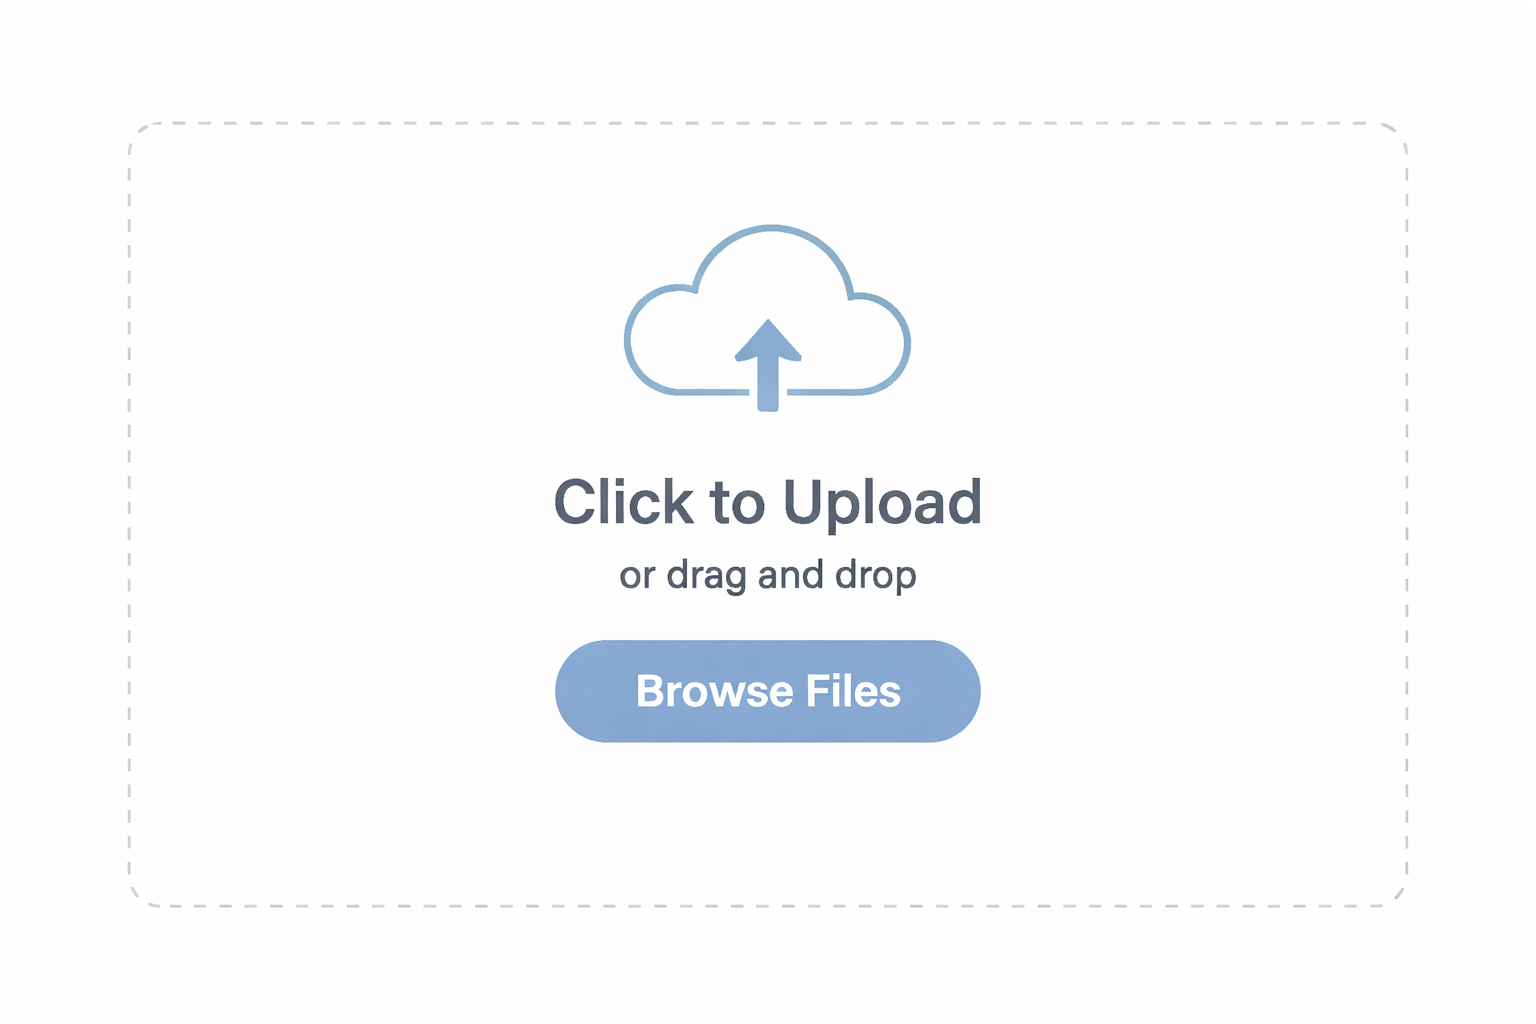
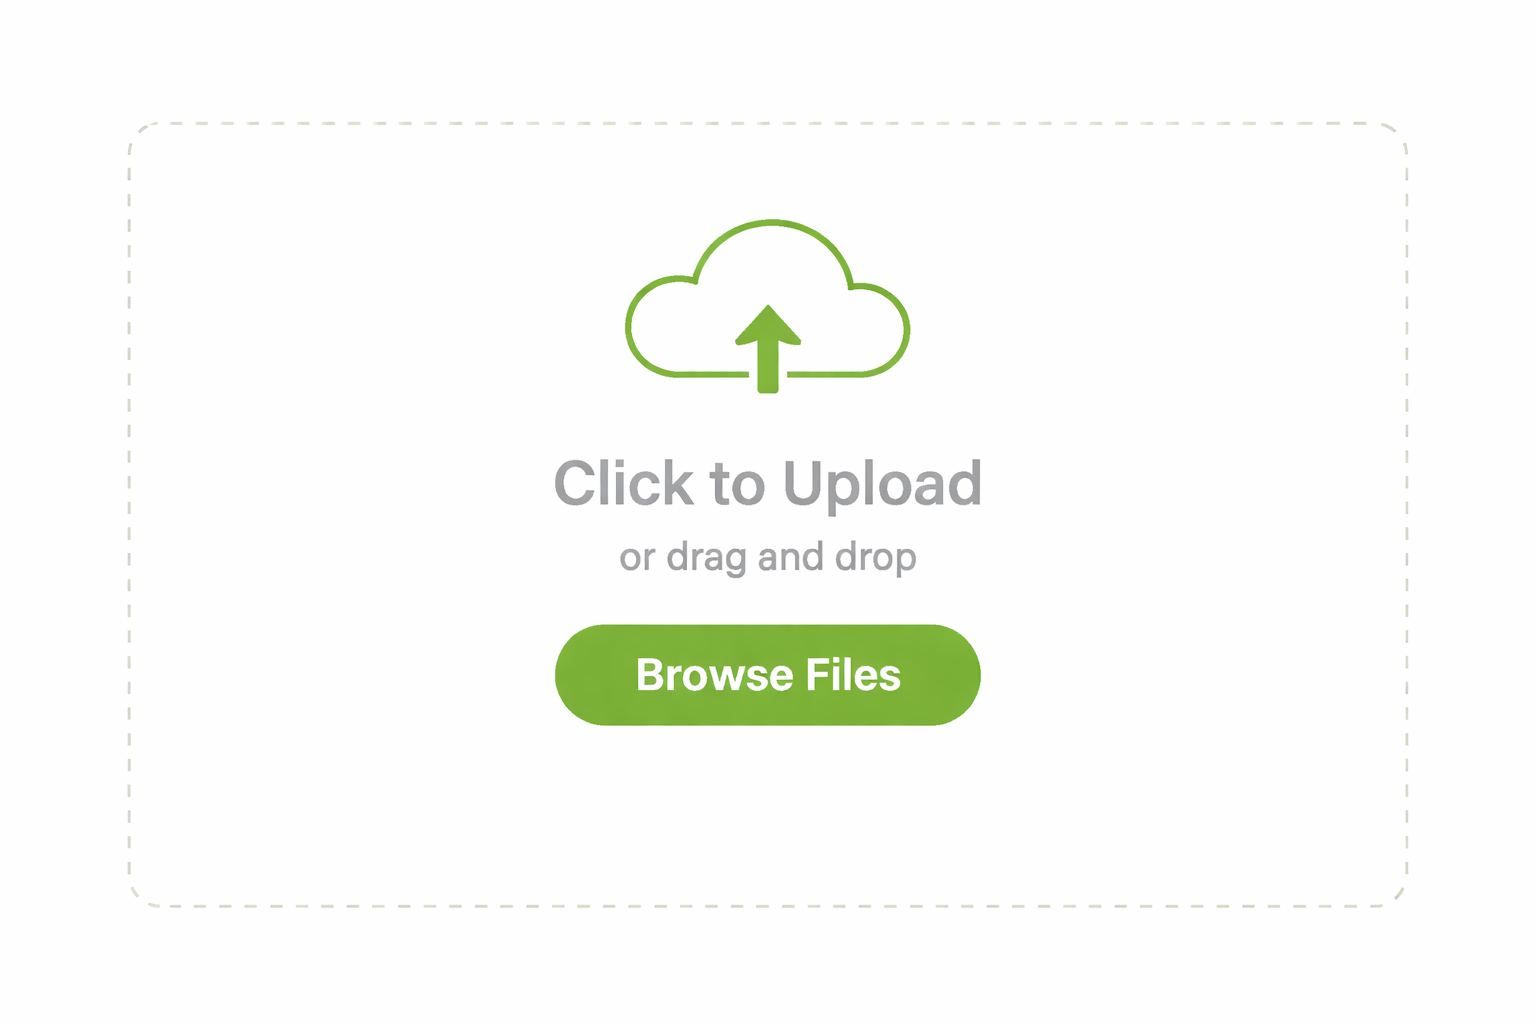
Completed

Changed region(s): [[0.3438, 0.4375, 0.6562, 0.75], [0.4062, 0.2188, 0.5938, 0.4062]]

diff --git a/Client/src/pages/seller/AddProduct.jsx b/Client/src/pages/seller/AddProduct.jsx
@@ -1,13 +1,13 @@
 import React, { useState } from 'react'
-import { assets } from '../../assets/assets';
+import { assets,Categories } from '../../assets/assets';
 
 const AddProduct = () => {
     const[files,setFiles] = useState([]) 
-    const[name,setName] = useState(' ') 
-    const[description,setDescription] = useState(' ') 
-    const[category,setCategory] = useState(' ') 
-    const[price,setPrice] = useState(' ') 
-    const[offerPrice,setOfferPrice] = useState(' ') 
+    const[name,setName] = useState('') 
+    const[description,setDescription] = useState('') 
+    const[category,setCategory] = useState('') 
+    const[price,setPrice] = useState('') 
+    const[offerPrice,setOfferPrice] = useState('') 
 
      const onSubmitHandler = async(event) =>{
         event.preventDefault();
@@ -16,14 +16,19 @@ const AddProduct = () => {
 
   return (
 
-        <div onSubmit={onSubmitHandler} className="no-scollbar flex-1 h-[95vh] overflow-y-scroll flexflex-col justify-between">
-            <form className="md:p-10 p-4 space-y-5 max-w-lg">
+        <div  className="no-scrollbar flex-1 h-[95vh] overflow-y-scroll flex flex-col justify-between">
+            <form onSubmit={onSubmitHandler} className="md:p-10 p-4 space-y-5 max-w-lg">
                 <div>
                     <p className="text-base font-medium">Product Image</p>
                     <div className="flex flex-wrap items-center gap-3 mt-2">
                         {Array(4).fill('').map((_, index) => (
                             <label key={index} htmlFor={`image${index}`}>
-                                <input accept="image/*" type="file" id={`image${index}`} hidden />
+                                <input onChange ={(e)=>{
+                                    const updatedFiles = [...files];
+                                    updatedFiles[index] = e.target.files[0];
+                                    setFiles(updatedFiles)
+                                }}
+                                type="file" id={`image${index}`} hidden />
 
                                 <img className="max-w-24 cursor-pointer" src={files[index]? URL.createObjectURL(files[index]):assets.u} alt="uploadArea" width={100} height={100} />
                                 
@@ -33,32 +38,36 @@ const AddProduct = () => {
                 </div>
                 <div className="flex flex-col gap-1 max-w-md">
                     <label className="text-base font-medium" htmlFor="product-name">Product Name</label>
-                    <input id="product-name" type="text" placeholder="Type here" className="outline-none md:py-2.5 py-2 px-3 rounded border border-gray-500/40" required />
+                    <input onChange={(e) => setName(e.target.value)} value={name}
+                     id="product-name" type="text" placeholder="Type here" className="outline-none md:py-2.5 py-2 px-3 rounded border border-gray-500/40" required />
                 </div>
                 <div className="flex flex-col gap-1 max-w-md">
                     <label className="text-base font-medium" htmlFor="product-description">Product Description</label>
-                    <textarea id="product-description" rows={4} className="outline-none md:py-2.5 py-2 px-3 rounded border border-gray-500/40 resize-none" placeholder="Type here"></textarea>
+                    <textarea  onChange={(e) => setDescription(e.target.value)} value={description} id="product-description" rows={4} className="outline-none md:py-2.5 py-2 px-3 rounded border border-gray-500/40 resize-none" placeholder="Type here"></textarea>
                 </div>
                 <div className="w-full flex flex-col gap-1">
                     <label className="text-base font-medium" htmlFor="category">Category</label>
-                    <select id="category" className="outline-none md:py-2.5 py-2 px-3 rounded border border-gray-500/40">
+                    <select  onChange={(e) => setCategory(e.target.value)} value={category}
+                     id="category" className="outline-none md:py-2.5 py-2 px-3 rounded border border-gray-500/40">
                         <option value="">Select Category</option>
-                        {[{ name: 'Electronics' }, { name: 'Clothing' }, { name: 'Accessories' }].map((item, index) => (
-                            <option key={index} value={item.name}>{item.name}</option>
+                        {Categories.map((item, index) => (
+                           <option key={index} value={item.path}>{item.path}</option>
                         ))}
                     </select>
                 </div>
                 <div className="flex items-center gap-5 flex-wrap">
                     <div className="flex-1 flex flex-col gap-1 w-32">
                         <label className="text-base font-medium" htmlFor="product-price">Product Price</label>
-                        <input id="product-price" type="number" placeholder="0" className="outline-none md:py-2.5 py-2 px-3 rounded border border-gray-500/40" required />
+                        <input onChange={(e) => setPrice(e.target.value)} value={price}
+                        id="product-price" type="number" placeholder="0" className="outline-none md:py-2.5 py-2 px-3 rounded border border-gray-500/40" required />
                     </div>
                     <div className="flex-1 flex flex-col gap-1 w-32">
                         <label className="text-base font-medium" htmlFor="offer-price">Offer Price</label>
-                        <input id="offer-price" type="number" placeholder="0" className="outline-none md:py-2.5 py-2 px-3 rounded border border-gray-500/40" required />
+                        <input onChange={(e) => setOfferPrice(e.target.value)} value={offerPrice}
+                         id="offer-price" type="number" placeholder="0" className="outline-none md:py-2.5 py-2 px-3 rounded border border-gray-500/40" required />
                     </div>
                 </div>
-                <button className="px-8 py-2.5 bg-indigo-500 text-white font-medium rounded">ADD</button>
+                <button className="px-8 py-2.5 bg-primary text-white font-medium rounded">ADD</button>
             </form>
         </div>
     );

diff --git a/Client/src/pages/seller/ProductList.jsx b/Client/src/pages/seller/ProductList.jsx
@@ -1,10 +1,47 @@
 import React from 'react'
+import { useAppContext } from '../../context/AppContext'
 
 const ProductList = () => {
+  const{products,currency} = useAppContext()
   return (
-    <div>
-      
-    </div>
+      <div className="no-scrollbar flex-1 h-[95vh] overflow-y-scroll flex flex-col justify-between">
+            <div className="w-full md:p-10 p-4">
+                <h2 className="pb-4 text-lg font-medium">All Products</h2>
+                <div className="flex flex-col items-center max-w-4xl w-full overflow-hidden rounded-md bg-white border border-gray-500/20">
+                    <table className="md:table-auto table-fixed w-full overflow-hidden">
+                        <thead className="text-gray-900 text-sm text-left">
+                            <tr>
+                                <th className="px-4 py-3 font-semibold truncate">Product</th>
+                                <th className="px-4 py-3 font-semibold truncate">Category</th>
+                                <th className="px-4 py-3 font-semibold truncate hidden md:block">Selling Price</th>
+                                <th className="px-4 py-3 font-semibold truncate">In Stock</th>
+                            </tr>
+                        </thead>
+                        <tbody className="text-sm text-gray-500">
+                            {products.map((product) => (
+                                <tr key={product._id} className="border-t border-gray-500/20">
+                                    <td className="md:px-4 pl-2 md:pl-4 py-3 flex items-center space-x-3 truncate">
+                                        <div className="border border-gray-300 rounded overflow-hidden">
+                                            <img src={product.image[0]} alt="Product" className="w-16" />
+                                        </div>
+                                        <span className="truncate max-sm:hidden w-full">{product.name}</span>
+                                    </td>
+                                    <td className="px-4 py-3">{product.category}</td>
+                                    <td className="px-4 py-3 max-sm:hidden">{currency}{product.offerPrice}</td>
+                                    <td className="px-4 py-3">
+                                        <label className="relative inline-flex items-center cursor-pointer text-gray-900 gap-3">
+                                            <input type="checkbox" className="sr-only peer" defaultChecked={product.inStock} />
+                                            <div className="w-12 h-7 bg-slate-300 rounded-full peer peer-checked:bg-blue-600 transition-colors duration-200"></div>
+                                            <span className="dot absolute left-1 top-1 w-5 h-5 bg-white rounded-full transition-transform duration-200 ease-in-out peer-checked:translate-x-5"></span>
+                                        </label>
+                                    </td>
+                                </tr>
+                            ))}
+                        </tbody>
+                    </table>
+                </div>
+            </div>
+        </div>
   )
 }
 

diff --git a/Client/src/pages/seller/Orders.jsx b/Client/src/pages/seller/Orders.jsx
@@ -1,10 +1,56 @@
-import React from 'react'
+import React, { useEffect, useState } from 'react'
+import { useAppContext } from '../../context/AppContext'
+import { assets, dummyOrders } from '../../assets/assets'
 
 const Orders = () => {
+  const {currency} = useAppContext()
+  const[orders,setOrders] = useState([]) 
+
+  const fetchOrders = async() =>{
+    setOrders(dummyOrders);
+  }
+  useEffect(()=>{
+fetchOrders();
+  },[])
   return (
-    <div>
-      
-    </div>
+    <div className='no-scrollbar flex-1 h-[95vh] overflow-y-scroll '>
+       <div className="md:p-10 p-4 space-y-4">
+            <h2 className="text-lg font-medium">Orders List</h2>
+            {orders.map((order, index) => (
+                <div key={index} className="flex flex-col  md:items-center  md:flex-row gap-5 justify-between p-5 max-w-4xl rounded-md border border-gray-300">
+                    <div className="flex gap-5 max-w-80">
+                        <img className="w-12 h-12 object-cover" src={assets.box} alt="boxIcon" />
+                        <>
+                            {order.items.map((item, index) => (
+                                <div key={index} className="flex flex-col">
+                                    <p className="font-medium">
+                                        {item.product.name} <span className='text-primary'>x {item.quantity}</span>
+                                    </p>
+                                </div>
+                            ))}
+                        </>
+                    </div>
+
+                    <div className="text-sm md:text-base text-black/60">
+                        <p className='text-black/80'>{order.address.firstName} {order.address.lastName}</p>
+                        <p>{order.address.street}, {order.address.city}</p> 
+                        <p>{order.address.state},{order.address.zipcode}, {order.address.country}</p>
+                        <p></p>
+                        <p>{order.address.phone}</p>
+                    </div>
+
+                    <p className="font-medium text-lg my-auto">{currency}{order.amount}</p>
+
+                    <div className="flex flex-col text-sm md:text-2xl-base text-black/60">
+                        <p>Method: {order.paymentType}</p>
+                        <p>Date: {new Date(order.createdAt).toLocaleString()}</p>
+                        <p>Payment: {order.isPaid ? "Paid" : "Pending"}</p>
+                    </div>
+                </div>
+                
+            ))}
+        </div>
+        </div>
   )
 }
 

diff --git a/Client/src/pages/seller/SellerLayout.jsx b/Client/src/pages/seller/SellerLayout.jsx
@@ -1,6 +1,6 @@
 import { useAppContext } from "../../context/AppContext";
 import { assets } from "../../assets/assets";
-import { Link, NavLink } from "react-router-dom";
+import { Link, NavLink ,Outlet} from "react-router-dom";
 const SellerLayout = () => {
 
     const { isSeller,setIsSeller} = useAppContext();
@@ -25,7 +25,7 @@ const SellerLayout = () => {
         <>
             <div className="flex items-center justify-between px-4 md:px-8 border-b border-gray-300 py-3 bg-white">
                 <Link to='/'>
-                     <img src='./Woody.png' alt="WoodyNest Logo" className="w-40" />
+                     <img src='../Woody.png' alt="WoodyNest Logo" className="w-40" />
                 </Link>
                 <div className="flex items-center gap-5 text-gray-500">
                     <p>Hi! Admin</p>
@@ -33,7 +33,7 @@ const SellerLayout = () => {
                 </div>
             </div>
             <div className="flex" >
-                <div className="md:w-64 w-16 border-r h-[550px] text-base border-gray-300 pt-4 flex flex-col transition-all duration-300">
+                <div className="md:w-64 w-16 border-r h-[95vh] text-base border-gray-300 pt-4 flex flex-col ">
                 {sidebarLinks.map((item) => (
                     <NavLink to={item.path} key={item.name} end ={item.path==="/seller"}
                         className={({isActive})=>`flex items-center py-3 px-4 gap-3 
@@ -47,7 +47,7 @@ const SellerLayout = () => {
                     </NavLink>
                 ))}
             </div>
-            <outlet/>
+            <Outlet/>
             </div>
             
         </>

diff --git a/Client/src/assets/assets.jsx b/Client/src/assets/assets.jsx
@@ -60,6 +60,7 @@ import r from './refresh.png';
 import cancel from './cancel.png';
 import add from './address.png';
 import u from './upload.png';
+import box from'./box.png';
 
 import c1 from './more.png';
 import c2 from './checkbox.png';
@@ -70,6 +71,7 @@ export const assets = {
     door,
     Main,
     mobile,
+    box,
     arrow,
     warrow,
     searchImg,
